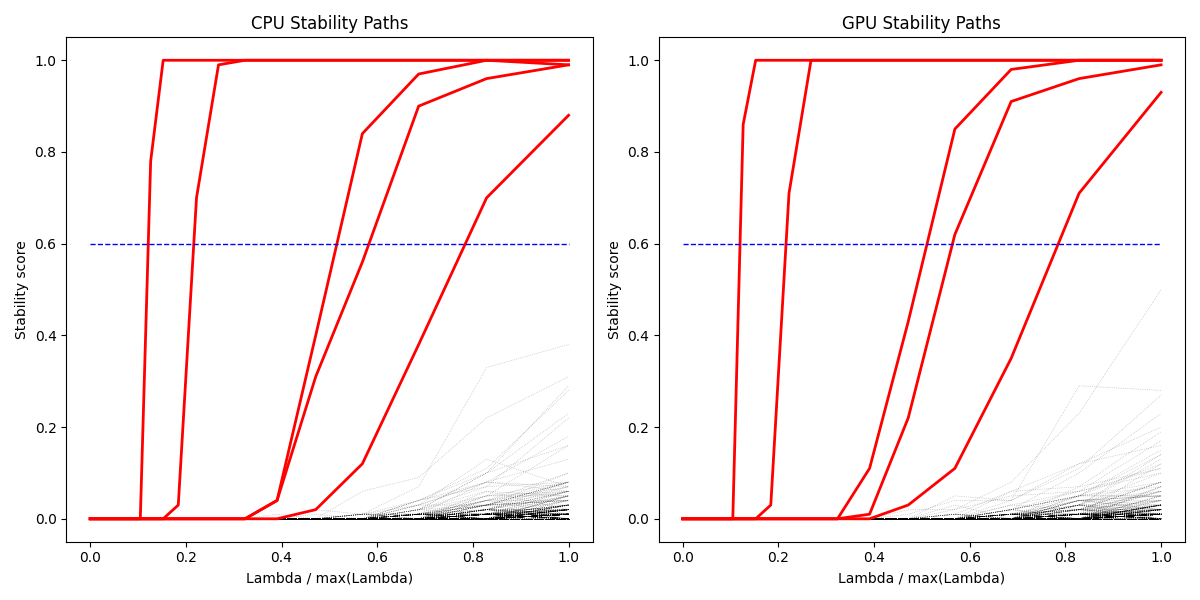
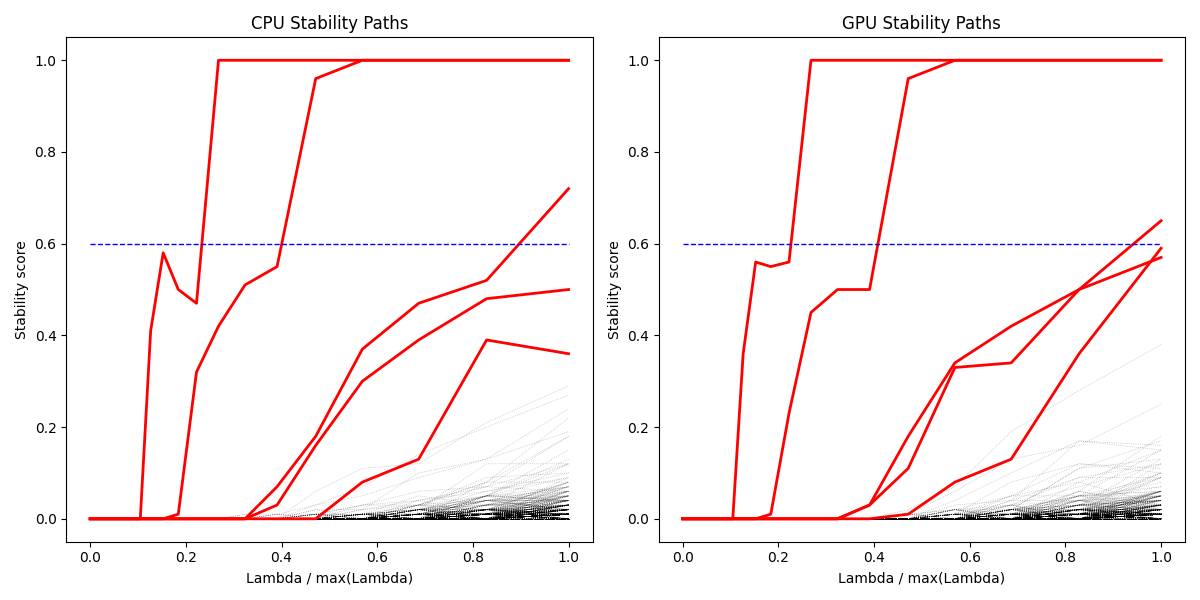
GPU trableshoot

diff --git a/examples/gpu_acceleration_example.py b/examples/gpu_acceleration_example.py
@@ -5,12 +5,11 @@ It compares the performance between CPU and GPU implementations.
 import time
 import numpy as np
 import matplotlib.pyplot as plt
-from sklearn.linear_model import LogisticRegression
-from sklearn.pipeline import Pipeline
 from sklearn.preprocessing import StandardScaler
+from sklearn.pipeline import Pipeline
 from sklearn.utils import check_random_state
 
-from stability_selection import StabilitySelection
+from stability_selection import StabilitySelection, RandomizedLogisticRegression
 
 
 def _generate_dummy_classification_data(p=1000, n=1000, k=5, random_state=123321):
@@ -29,16 +28,38 @@ def _generate_dummy_classification_data(p=1000, n=1000, k=5, random_state=123321
 
 
 if __name__ == '__main__':
+    # Check GPU availability
+    try:
+        import torch
+        gpu_available = torch.cuda.is_available()
+        if gpu_available:
+            device_count = torch.cuda.device_count()
+            device_name = torch.cuda.get_device_name(0) if device_count > 0 else "Unknown"
+            print(f"GPU is available: {device_count} device(s) found")
+            print(f"GPU device: {device_name}")
+        else:
+            print("WARNING: GPU is not available. PyTorch will use CPU only.")
+            print("GPU acceleration will be simulated but not actually used.")
+    except ImportError:
+        print("WARNING: PyTorch is not installed. GPU acceleration will not be available.")
+        gpu_available = False
+    
     n, p, k = 500, 1000, 5  # Sample size, dimensionality, number of important features
     
     print("Generating synthetic data...")
     X, y, important_betas = _generate_dummy_classification_data(n=n, p=p, k=k)
     print(f"Generated data: {X.shape}, with important features at indices: {important_betas}")
     
-    # Create a base estimator pipeline
-    base_estimator = Pipeline([
+    # Create a base estimator pipeline for CPU
+    base_estimator_cpu = Pipeline([
         ('scaler', StandardScaler()),
-        ('model', LogisticRegression(penalty='l1', solver='liblinear'))
+        ('model', RandomizedLogisticRegression(weakness=0.5, C=0.1, use_gpu=False))
+    ])
+    
+    # Create a base estimator pipeline for GPU
+    base_estimator_gpu = Pipeline([
+        ('scaler', StandardScaler()),
+        ('model', RandomizedLogisticRegression(weakness=0.5, C=0.1, use_gpu=True))
     ])
     
     # Configure lambda grid
@@ -48,7 +69,7 @@ if __name__ == '__main__':
     print("\nRunning stability selection on CPU...")
     start_time = time.time()
     cpu_selector = StabilitySelection(
-        base_estimator=base_estimator, 
+        base_estimator=base_estimator_cpu, 
         lambda_name='model__C',
         lambda_grid=lambda_grid,
         n_jobs=-1,  # Use all CPU cores
@@ -63,7 +84,7 @@ if __name__ == '__main__':
     print("\nRunning stability selection with GPU acceleration if available...")
     start_time = time.time()
     gpu_selector = StabilitySelection(
-        base_estimator=base_estimator, 
+        base_estimator=base_estimator_gpu, 
         lambda_name='model__C',
         lambda_grid=lambda_grid,
         n_jobs=-1,
@@ -79,6 +100,22 @@ if __name__ == '__main__':
         print(f"GPU provided a {speedup:.2f}x speedup")
     else:
         print("CPU was faster in this case")
+    
+    # Test if GPU was actually used
+    import os
+    os.environ['CUDA_LAUNCH_BLOCKING'] = '1'  # Make CUDA errors more obvious
+    
+    print("\nVerifying GPU usage:")
+    try:
+        # Create a small test tensor on GPU
+        if gpu_available:
+            test_tensor = torch.tensor([1, 2, 3], device='cuda')
+            print(f"Test tensor created on: {test_tensor.device}")
+            print("CUDA is working correctly!")
+        else:
+            print("No GPU available for testing.")
+    except Exception as e:
+        print(f"Error testing GPU: {e}")
     
     # Compare the selected features
     cpu_selected = cpu_selector.get_support(indices=True)
@@ -120,3 +157,16 @@ if __name__ == '__main__':
     plt.savefig('stability_paths_comparison.png')
     print("\nStability paths comparison saved to 'stability_paths_comparison.png'")
     plt.show()
+
+    # Print troubleshooting information
+    print("\n" + "="*50)
+    print("TROUBLESHOOTING INFORMATION")
+    print("="*50)
+    print("If you're not seeing GPU acceleration:")
+    print("1. Make sure PyTorch is installed with CUDA support:")
+    print("   pip install torch torchvision torchaudio --index-url https://download.pytorch.org/whl/cu121")
+    print("2. Verify your NVIDIA drivers are installed and up to date")
+    print("3. Check that your GPU is CUDA-compatible")
+    print("4. Run 'nvidia-smi' in terminal to verify GPU is detected")
+    print("5. Make sure both 'use_gpu=True' parameters are set in the code")
+    print("="*50)
